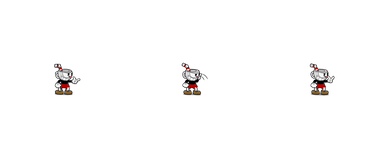
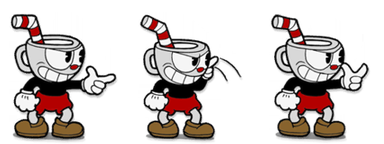
CupheadMascot v1.2.1: normalize sprite frames so Cuphead appears full-size

diff --git a/README.md b/README.md
@@ -1,7 +1,7 @@
-# CupheadMascot v1.2 — Mira Livre / Kwai
+# CupheadMascot v1.2.1 — Mira Livre / Kwai
 
 ## Correções pedidas
-- Personagem visualmente ~1,5x maior (render 145×163 no canvas 540×960), hitbox de 80×106, pés alinhados às plataformas.
+- Personagem visualmente maior, com sprite recortado e ampliado (render 145×163 no canvas 540×960), hitbox de 80×106, pés alinhados às plataformas.
 - Sprite com tiro para cima, baixo e diagonal, retirado do ZIP enviado. Espelhamento para a esquerda.
 - Joystick direito em 8 direções: mantenha o dedo no joystick para mirar **e disparar**; o botão ATIRAR é independente e continua usando a última direção.
 - Boss alterna ataques automaticamente por padrão, sem repetir o tipo imediatamente. Ao carregar projeto antigo com apenas 1 ataque, o modo SURPRESA adiciona variações temporárias sem alterar os ataques salvos.
